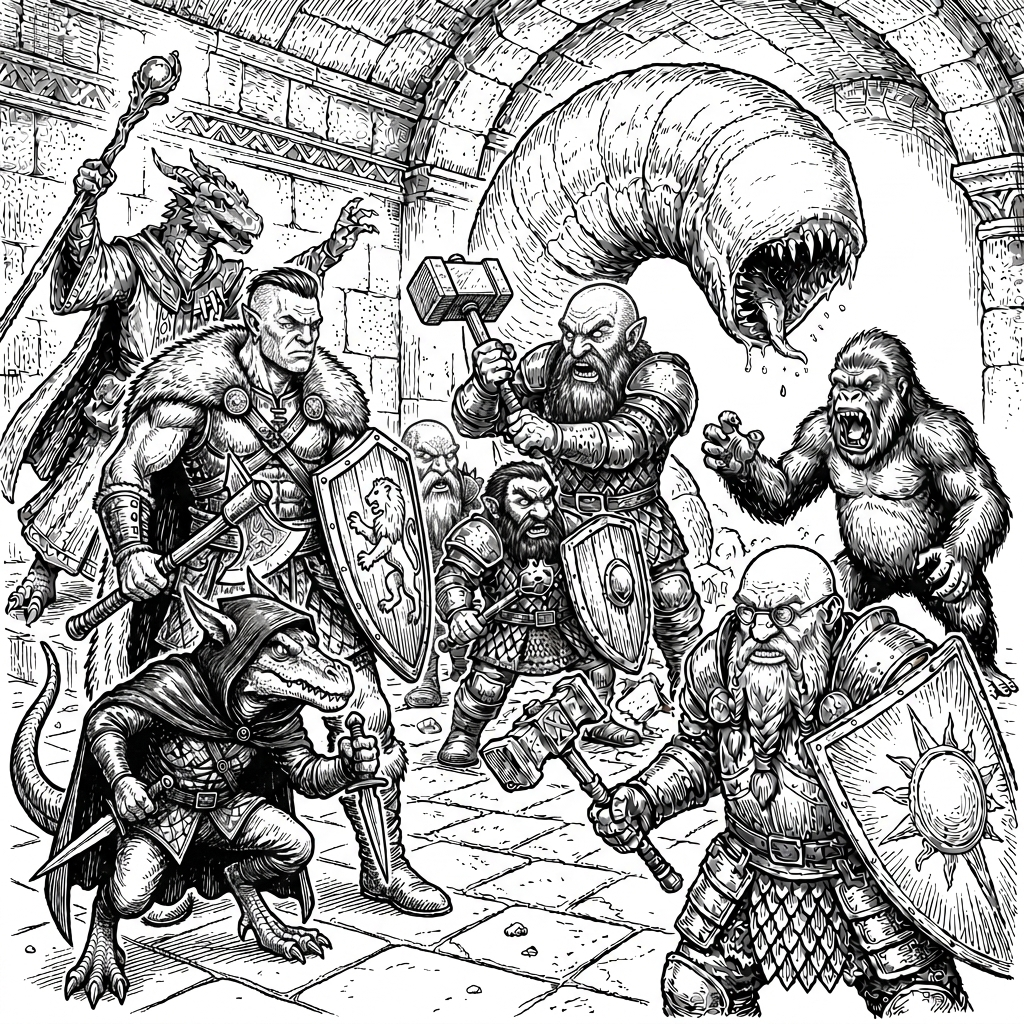
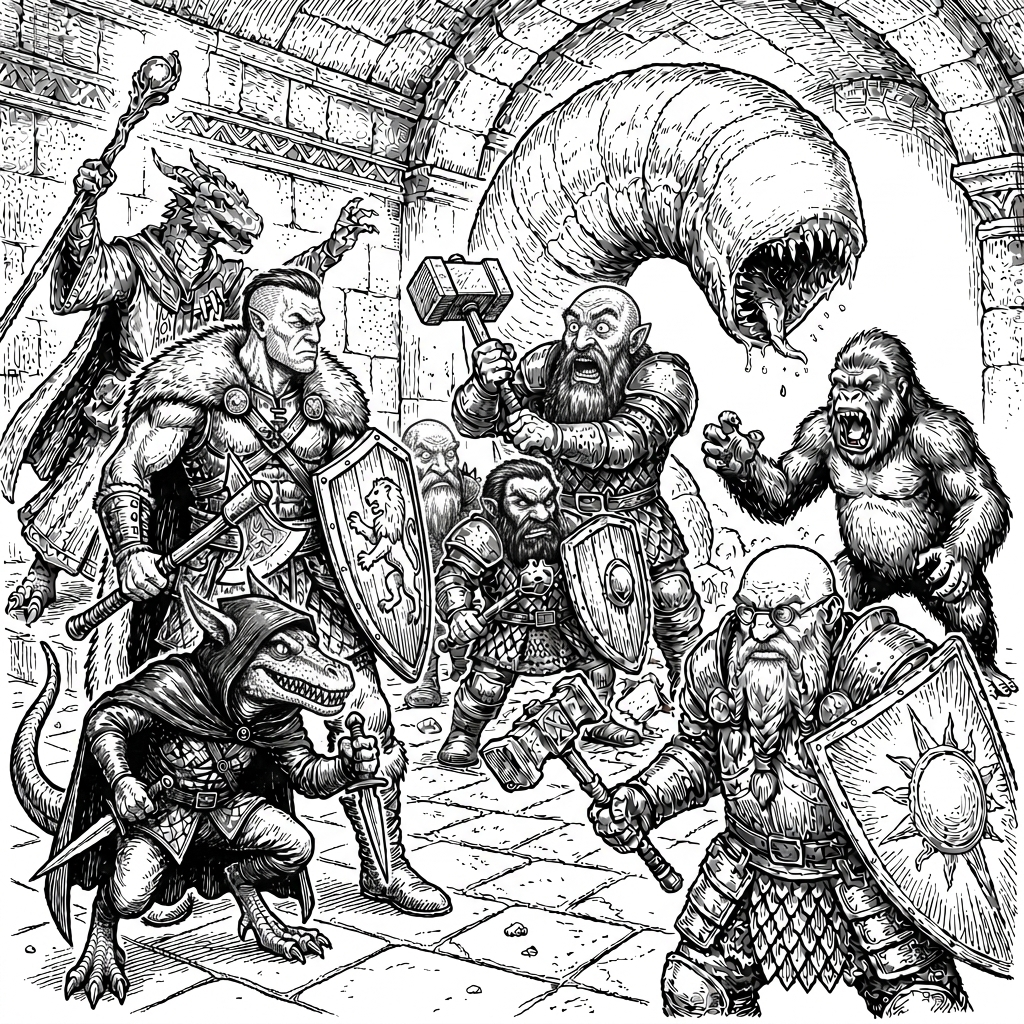
fix: set Thorn gaze right at Duergar & Duergar horror/combat reaction to worm in Ch7 art [skip netlify]

diff --git a/src/lib/build-info.ts b/src/lib/build-info.ts
@@ -1,3 +1,3 @@
 // Generated by scripts/write-build-info.mjs — do not edit
-export const SITE_EDITION = "e6d4079";
-export const SITE_BUILT_AT = "2026-07-27T12:06:02.761Z";
+export const SITE_EDITION = "bfdf37c";
+export const SITE_BUILT_AT = "2026-07-27T12:07:35.898Z";
